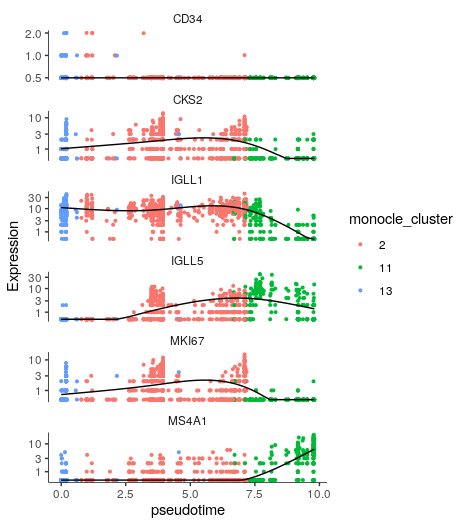
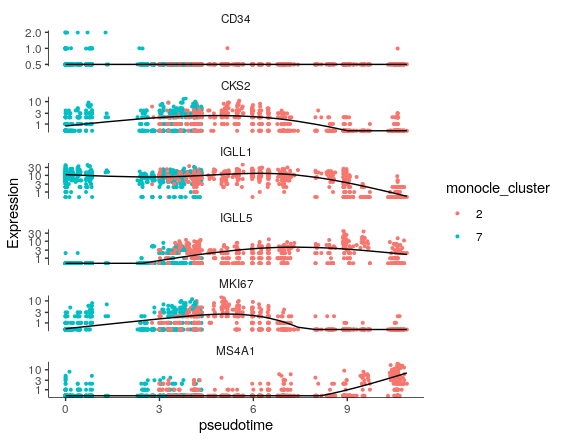
fixes and improves monocle3 part

diff --git a/docs/day3/trajectory_analysis.md b/docs/day3/trajectory_analysis.md
@@ -451,6 +451,10 @@ monocle3::plot_cells(seu_int_monocl,
            graph_label_size=1.5, cell_size = 1)
 ```
 
+<figure>
+  <img src="../../assets/images/umap_monocle_pseudotime.png" width="500"/>
+</figure>
+
 In order to find genes which expression is affected by pseudtime, we first have to isolate the B-cell cluster. Therefore, extract all cells in the B-cell cluster with the interactive `choose_cells` function:
 
 ```R
@@ -487,6 +491,11 @@ goi <- c("CD34", "MS4A1", "IGLL1", "IGLL5",
 plot_cells(seuB, label_cell_groups=FALSE, genes = goi,
            show_trajectory_graph=FALSE, cell_size = 1)
 ```
+
+<figure>
+  <img src="../../assets/images/umaps_bcells_goi.png" width="500"/>
+</figure>
+
 
 But also against pseudotime:
 
